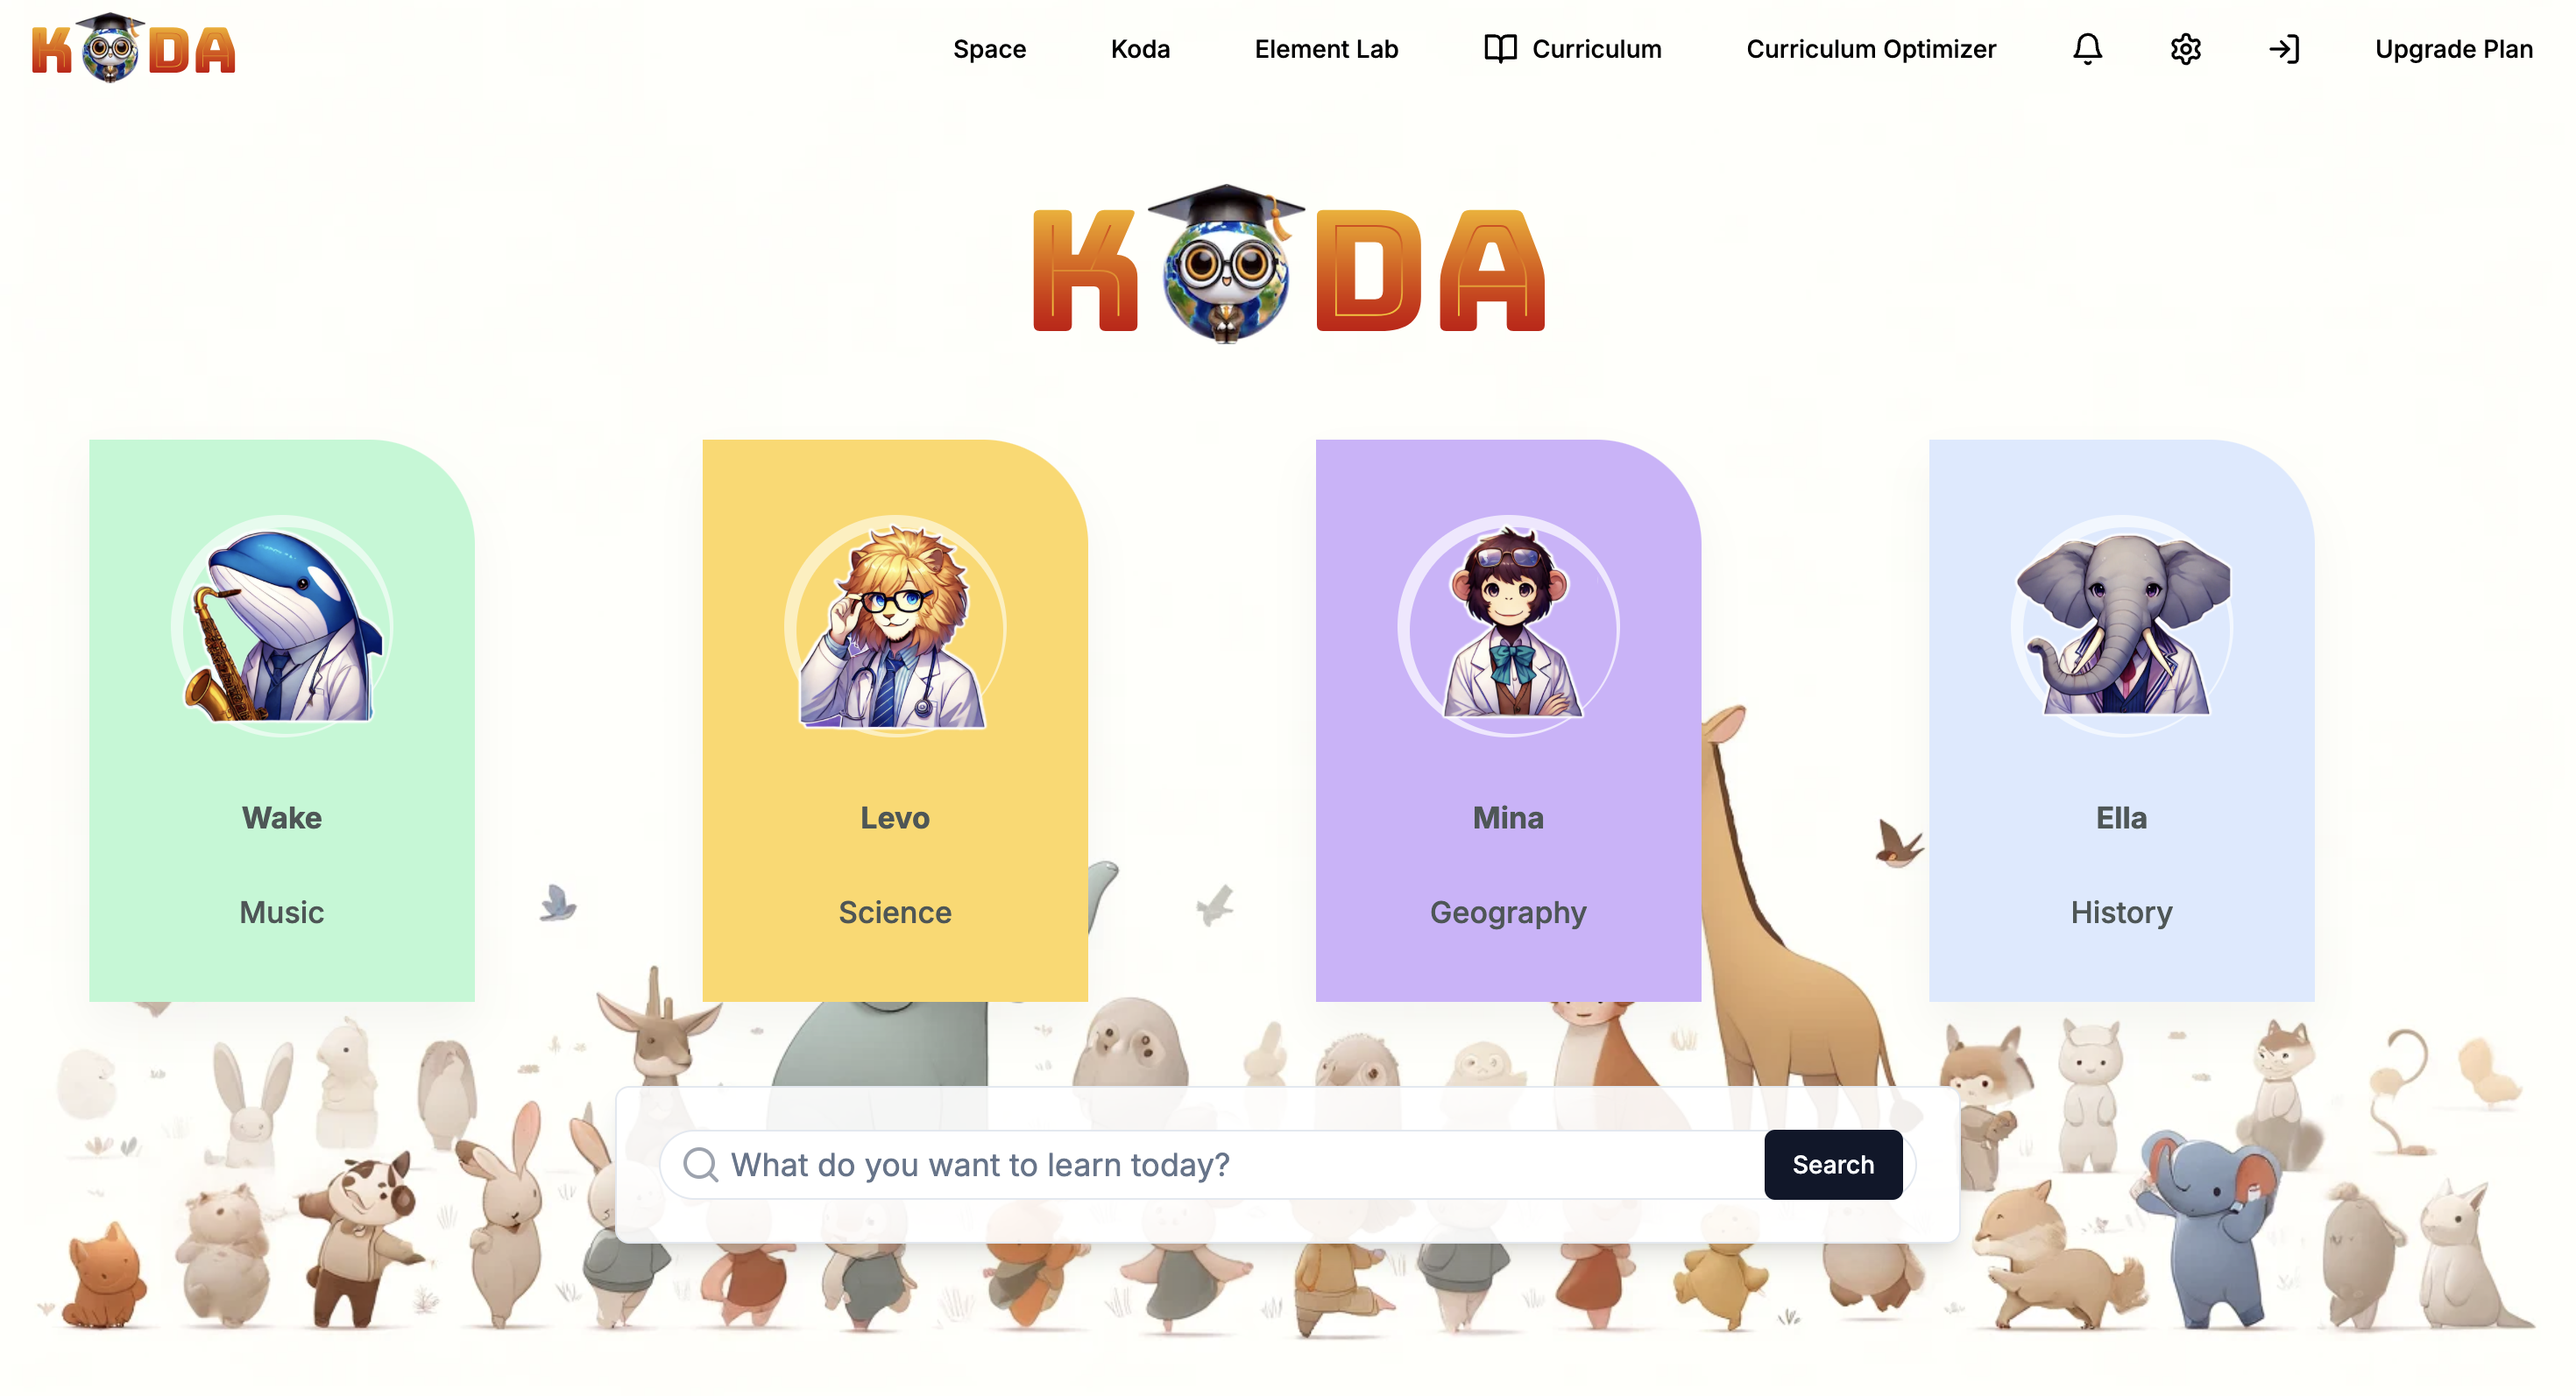
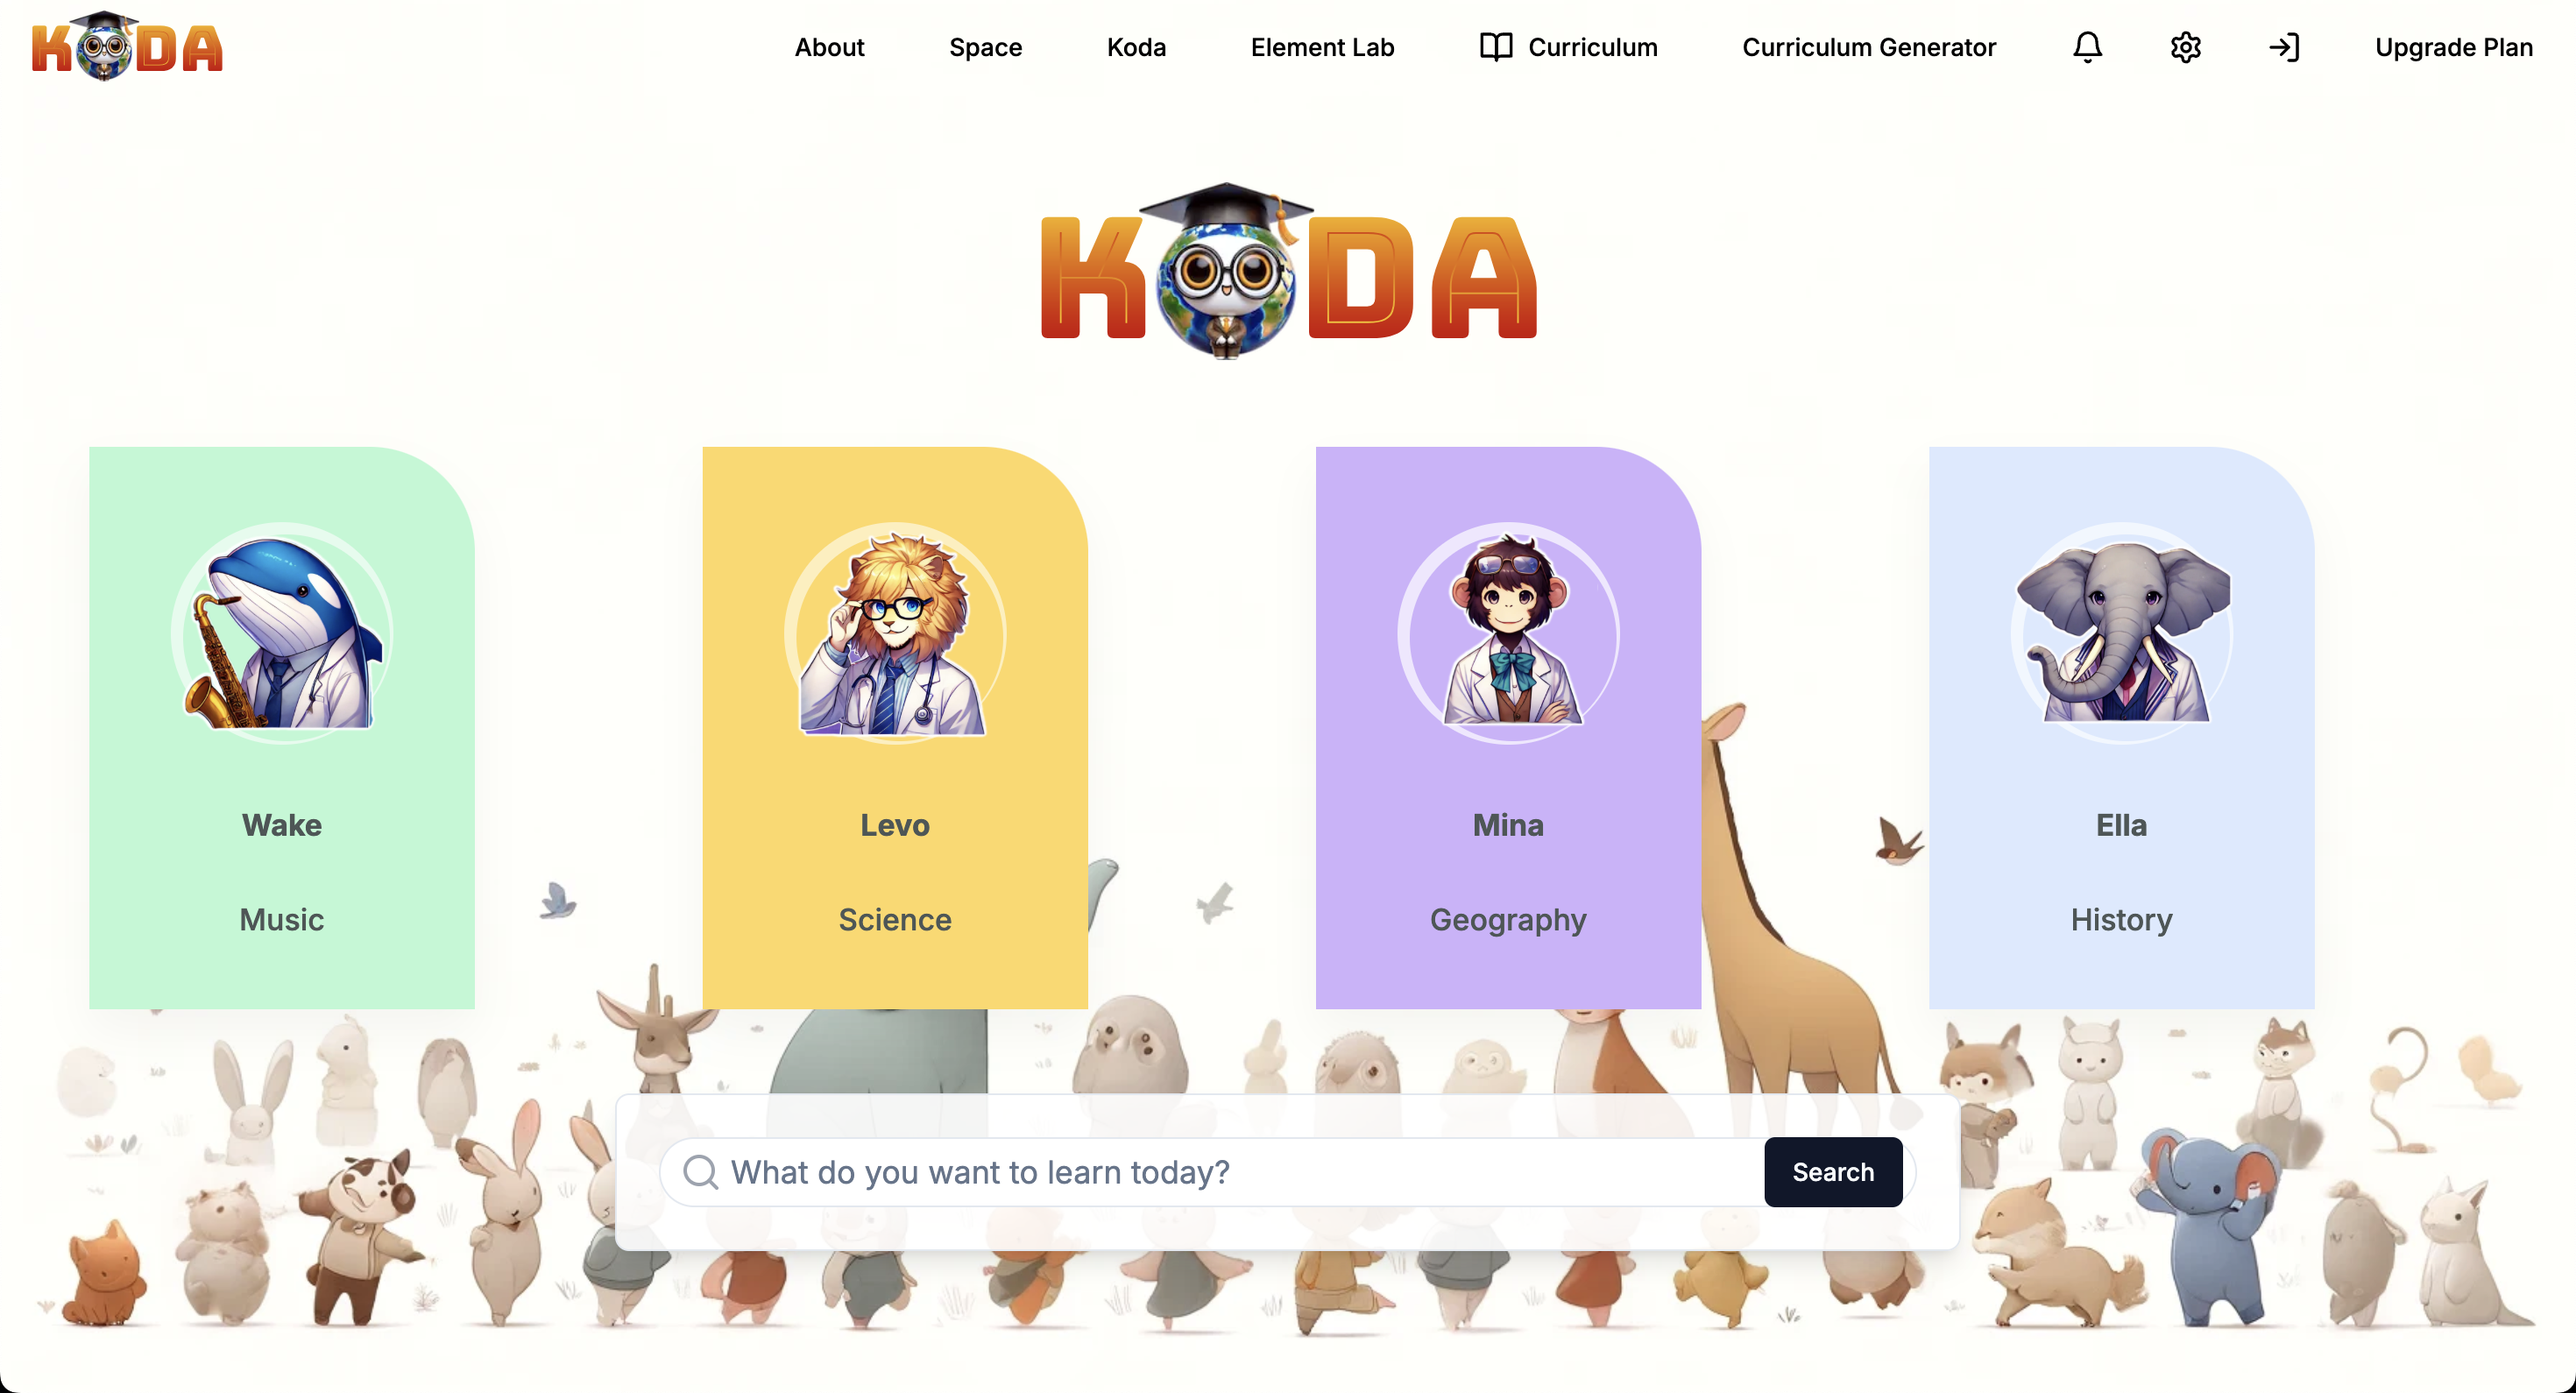
push

diff --git a/src/components/KodaHeader.tsx b/src/components/KodaHeader.tsx
@@ -28,9 +28,9 @@ const KodaHeader: React.FC<KodaHeaderProps> = ({ inverse = false }) => {
           <span style={{ letterSpacing: 'inherit' }}>DA</span>
         </Link>
         <div className="flex items-center space-x-4">
-          <Link href="/koda-bg" passHref>
+          {/* <Link href="/koda-bg" passHref>
             <Button variant="ghost" className={`${textColor} ${hoverBgColor}`}>Tag</Button>
-          </Link>
+          </Link> */}
           <Link href="/about" passHref>
             <Button variant="ghost" className={`${textColor} ${hoverBgColor}`}>About</Button>
           </Link>

diff --git a/src/app/layout.tsx b/src/app/layout.tsx
@@ -1,11 +1,10 @@
 import type { Metadata } from "next";
 // import { Inter, Bungee_Spice, Londrina_Shadow } from "next/font/google";
 import "./globals.css";
-import "../styles/animalButtons.css";
+import "@/styles/animalButtons.css";
 // import "../styles/shapegame.css";
 // import "../styles/characterBase.css";
 // import "../styles/curriculumPage.css";
-
 
 
 import { Inter, Bungee_Spice, Londrina_Shadow } from "next/font/google";

diff --git a/README.md b/README.md
@@ -1,4 +1,195 @@
-# Koda World
+# KodaWorld
+
+![KodaWorld](public/kodaworld_image.png)
+
+## Table of Contents
+
+1. [Overview](#overview)
+2. [Technology Stack](#technology-stack)
+3. [Project Structure](#project-structure)
+4. [Key Components](#key-components)
+5. [Character Profiles](#character-profiles)
+6. [Features](#features)
+7. [API Integration](#api-integration)
+8. [UI Components](#ui-components)
+9. [Development and Setup](#development-and-setup)
+10. [Future Developments](#future-developments)
+11. [Contact](#contact)
+
+## Overview
+
+KodaWorld is an innovative AI-powered educational platform that transforms learning into an engaging adventure. Guided by a cast of charming animal companions, students embark on interactive quests, solve puzzles, and participate in hands-on experiments across various subjects. The platform's cutting-edge AI adapts to each learner's pace and style, ensuring a personalized and enjoyable educational experience.
+
+## Technology Stack
+
+- **Frontend**: Next.js, React, TypeScript
+- **3D Rendering**: Three.js, React Three Fiber
+- **State Management**: Zustand
+- **Styling**: Tailwind CSS, Styled Components
+- **Animations**: Framer Motion, GSAP
+- **Backend**: Python, FastAPI
+- **AI**: AI71 API (Falcon 180b, Falcon 11b), OpenAI API, Langchain
+- **Database**: PostgreSQL, SQLAlchemy
+- **Cache**: Redis
+- **Authentication**: JSON Web Tokens (JWT)
+
+## Project Structure
+
+The project is organized into two main parts:
+
+1. **Frontend** (`src/` directory)
+   - `app/`: Next.js pages and layouts
+   - `components/`: React components
+   - `styles/`: CSS and styled-component files
+   - `utils/`: Utility functions
+   - `api/`: API integration functions
+   - `types/`: TypeScript type definitions
+
+2. **Backend** (`ai71/` directory)
+   - `main.py`: FastAPI application entry point
+   - `api.py`: AI API interface
+   - `database.py`: Database models and connections
+   - `dialogue_management/`: Conversation management
+   - `curriculum/`: Curriculum generation and optimization
+   - `gamification/`: Gamification system
+   - `peer_matching/`: Peer matching algorithms
+   - `recommender_system/`: Resource recommendation system
+   - `element_lab/`: UI element generation
+
+## Key Components
+
+### AI API Interface (`ai71/api.py`)
+Manages interactions with AI services, including chat completions and memory management.
+
+### Dialogue Management (`ai71/dialogue_management/manager.py`)
+Handles conversations between students and AI characters, maintaining context and generating appropriate responses.
+
+### Curriculum Optimization (`ai71/curriculum/curriculum_gen.py`)
+Generates and optimizes curricula based on student performance and learning goals.
+
+### Gamification System (`ai71/gamification/system.py`)
+Implements achievement systems, challenges, and engagement scoring to enhance user motivation.
+
+### Peer Matching (`ai71/peer_matching/matcher.py`)
+Algorithmically matches students for group activities based on skills and compatibility.
+
+### Resource Recommender (`ai71/recommender_system/recommender.py`)
+Suggests personalized learning resources based on student profiles and current focus areas.
+
+## Character Profiles
+
+- **Wake the Musical Whale**: Guides students through music theory, instrument studies, and musical history.
+- **Levo the Scholarly Lion**: Specializes in science, math, and programming concepts.
+- **Mina the Globetrotting Monkey**: Explores geography, cultures, and space-related topics.
+- **Ella the Wise Elephant**: Brings history to life with engaging narratives and insights.
+- **Koda**: The AI tutor covering various subjects and learning strategies.
+
+## Features
+
+### Interactive Learning Environments
+- **Music Visualizer**: Engages students in audio-visual learning experiences.
+- **Particle Game**: Demonstrates scientific concepts through interactive particle simulations.
+- **Shape Puzzle**: Enhances spatial reasoning and problem-solving skills.
+- **Numbers Game**: Improves mathematical thinking with a 2048-style game.
+- **Space Exploration**: Interactive solar system model for astronomy education.
+
+### Adaptive Curriculum
+The platform dynamically adjusts learning paths based on student performance, interests, and goals.
+
+### Gamification
+Implements achievements, challenges, and a points system to boost engagement and motivation.
+
+### Peer Learning
+Facilitates collaborative learning through intelligent peer matching and group activities.
+
+### AI-Powered Tutoring
+Provides personalized assistance and explanations across various subjects.
+
+## API Integration
+
+The `src/api/chat.ts` file contains functions for interacting with the backend API, including:
+
+- Sending chat messages
+- Retrieving conversation history
+- Managing user profiles and achievements
+- Generating and optimizing curricula
+- Creating and managing learning environments
+
+## UI Components
+
+KodaWorld features a rich set of UI components, including:
+
+- **KodaHeader**: Navigation and user interface header.
+- **CharacterBase**: Base component for character interactions.
+- **ActivityLayout**: Layout for various learning activities.
+- **ElementLab**: Customizable UI elements for interactive content creation.
+
+## Development and Setup
+
+1. Clone the repository
+2. Install dependencies:
+   ```
+   npm install  # For frontend
+   pip install -r requirements.txt  # For backend
+   ```
+3. Set up environment variables (see `.env.example`)
+4. Run the development servers:
+   ```
+   npm run dev  # Frontend
+   uvicorn ai71.main:app --reload  # Backend
+   ```
+
+## Future Developments
+
+### Peer Matching
+
+**Current Status:**
+Forms study groups based on skill levels and compatibility but lacks real-time adjustments and scalability.
+
+**Enhancements:**
+- **Heuristics-Based Matching:** Use logic-based algorithms for dynamic, real-time group formation, ensuring efficient and adaptive groupings.
+- **Advanced Compatibility Metrics:** Integrate detailed metrics, including past collaboration success and real-time performance data, to enhance group compatibility.
+
+### Gamification
+
+**Current Status:**
+Enhances engagement through achievements and challenges but lacks personalization and long-term strategies.
+
+**Enhancements:**
+- **Rule-Based Systems:** Implement predefined rules for adaptive challenges and achievements. This approach personalizes the learning experience based on student progress.
+- **Varied Engagement Strategies:** Introduce diverse gamification elements like daily quests, streak rewards, and social achievements, using logic-based rules to maintain long-term engagement.
+
+### Academic Curriculum Optimizer
+
+**Current Status:**
+Personalizes learning paths but needs better data integration and recommendation accuracy.
+
+**Enhancements:**
+- **Data Management Techniques:** Use advanced data management for better integration and analysis, ensuring precise and actionable learning path recommendations. Logic-based methods can effectively manage and interpret diverse performance metrics.
+- **Feedback Loops:** Implement continuous improvement cycles using user feedback to refine recommendations, enhancing personalization.
+
+### Academica
+
+**Current Status:**
+Generates interactive environments but struggles with relevance and engagement.
+
+**Enhancements:**
+- **Heuristic Content Generation:** Use heuristic rules to create consistent and engaging educational content. This method ensures relevance and engagement.
+- **Enhanced Interaction Handling:** Improve processing and responses to student interactions using predefined logic, making interactions more meaningful and responsive.
+
+### Expanding Game and Educational Tools
+
+KodaWorld plans to introduce more game-based and educational tools accessible to all users. These tools will include interactive simulations, collaborative projects, and multimedia resources. By leveraging both educational theory and game design principles, these additions will make learning more immersive and enjoyable. The goal is to cater to diverse learning styles and interests, ensuring every student finds engaging and effective learning opportunities.
+## Contact
+
+For inquiries or support, please contact us at [kodaworld.edu@gmail.com](mailto:kodaworld.edu@gmail.com).
+
+---
+
+KodaWorld - Where Learning Becomes an Adventure!
+
+
+<!-- # Koda World
 
 ![KodaWorld](public/kodaworld_image.png)
 
@@ -379,4 +570,4 @@ class DialogueManager:
 - **Conversation Management**: Storing and retrieving conversation history.
 - **Feedback Collection**: Logging feedback from students.
 - **Progress Analysis**: Evaluating student interaction and progress.
-- **Curriculum Optimization**: Adjusting curriculum based on performance data.
+- **Curriculum Optimization**: Adjusting curriculum based on performance data. -->
